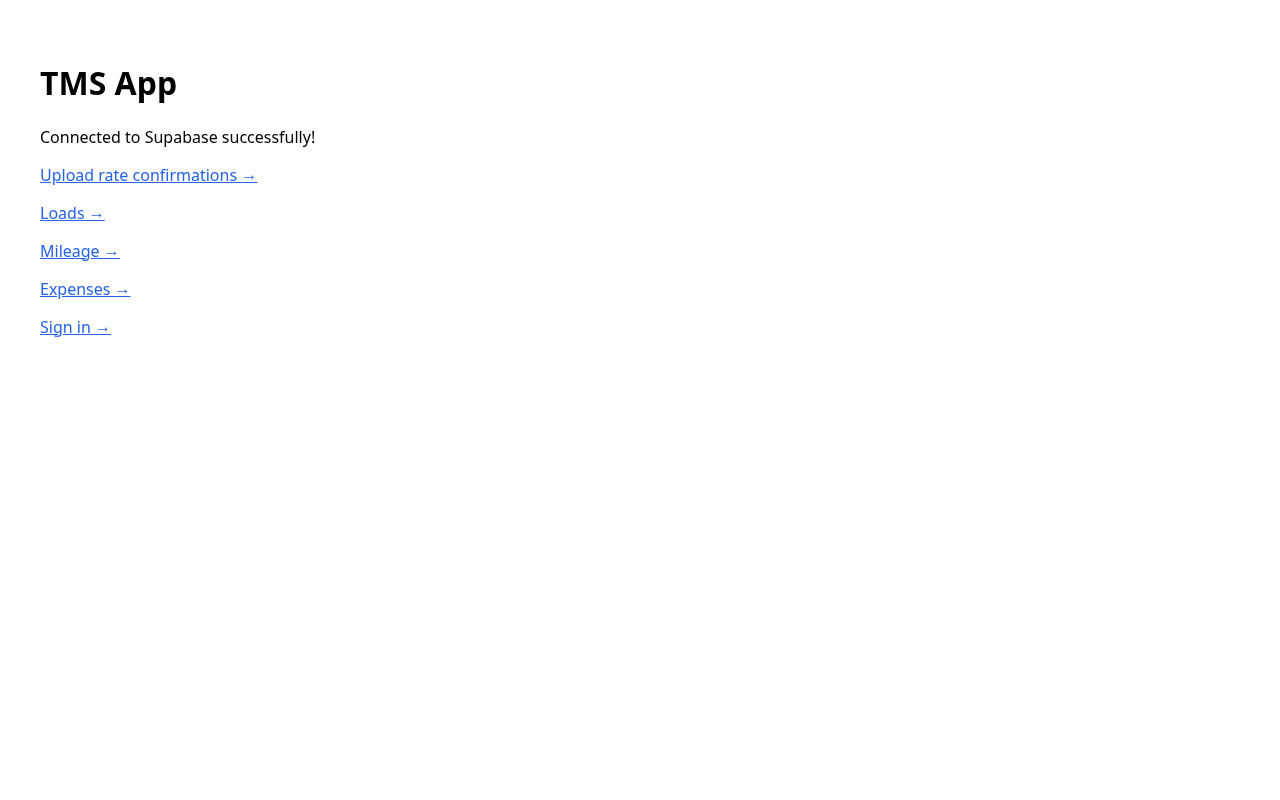
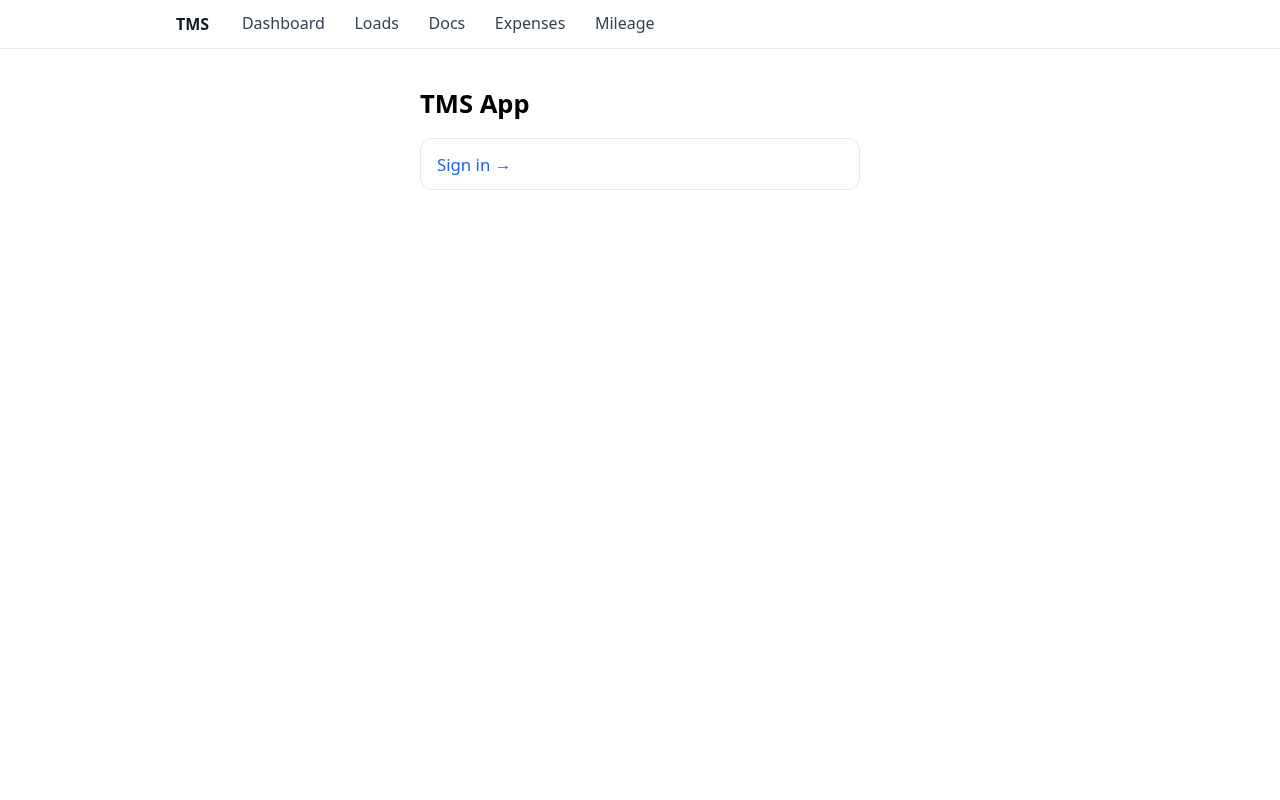
docs: CHANGELOG #14/#16/#17 merged, #18 open; notes known-issue updates; retake 01-home; add 21/22 retest shots

diff --git a/docs/progression/2026-10-11-current-state/notes.md b/docs/progression/2026-10-11-current-state/notes.md
@@ -16,7 +16,7 @@ Snapshot of production (main at 8bf3771).
 - **Security:** row-level security limits every table and storage path to the owner.
 
 ## Pending
-- [#11](https://github.com/fstrucks/tms-app/pull/11) Weekly dashboard: open, not merged.
+- [#11](https://github.com/fstrucks/tms-app/pull/11) Weekly dashboard: merged 2026-10-11.
 - [#13](https://github.com/fstrucks/tms-app/pull/13) Receipt auto-fill date/category fix: open. Until it merges, auto-fill can set the date to today or pick the wrong category (e.g. parking → fuel).
 
 ## Known gaps
@@ -28,8 +28,9 @@ Snapshot of production (main at 8bf3771).
 - Android device testing pending.
 
 ## Known issues found in smoke test
-- The Atlanta, GA delivery stop is shown with TZ America/Chicago; it should be America/New_York.
-- The home page still shows "Sign in" when the user is signed in.
+- Atlanta, GA stop showing America/Chicago: fixed by [#17](https://github.com/fstrucks/tms-app/pull/17) for new loads (TEST-1002 verified America/New_York). Stops created earlier keep their old zone.
+- Appointment times are shown in the viewer's zone instead of the stop's zone: fix pending in [#18](https://github.com/fstrucks/tms-app/pull/18).
+- Home page showing "Sign in" while signed in: fixed by [#17](https://github.com/fstrucks/tms-app/pull/17).
 - The expense form keeps the Load selection after saving.
 
 ## Device testing
@@ -39,7 +40,7 @@ Snapshot of production (main at 8bf3771).
 ## Screenshots
 Desktop, 1280px, signed out (no test data visible).
 
-- [01-home.png](01-home.png): home page with links to each feature.
+- [01-home.png](01-home.png): signed-out home page, re-taken after #17/#14: shared top nav plus "Sign in".
 - [02-login.png](02-login.png): magic-link sign-in.
 - [03-documents-unauth.png](03-documents-unauth.png): /documents signed out, showing the in-page sign-in prompt (no redirect).
 - [04-loads-unauth.png](04-loads-unauth.png): /loads signed out, showing the in-page sign-in prompt (no redirect).
@@ -59,6 +60,10 @@ Desktop, 1280px, signed out (no test data visible).
 - [18-home-signed-in.png](18-home-signed-in.png): home page, signed in.
 - [19-mobile-documents.png](19-mobile-documents.png): mobile (~388px) /documents.
 - [20-mobile-expenses.png](20-mobile-expenses.png): mobile (~388px) /expenses.
+
+### Retest after #17 (test account, fake data)
+- [21-home-signed-in.png](21-home-signed-in.png): home page signed in (signed-in state, sign out).
+- [22-load-detail-ga.png](22-load-detail-ga.png): load detail TEST-1002 with the Atlanta, GA stop on America/New_York.
 
 ### Pending screenshots
 - /dashboard via the PR #11 preview deployment

diff --git a/docs/progression/CHANGELOG.md b/docs/progression/CHANGELOG.md
@@ -3,6 +3,9 @@
 Notable changes to the TMS app, newest first. Dates are merge dates (UTC) from GitHub.
 
 ## 2026-10-11
+- [#16](https://github.com/fstrucks/tms-app/pull/16) Receipt parsing follow-ups (months, all date candidates, logs, limits, single decode)
+- [#14](https://github.com/fstrucks/tms-app/pull/14) Mobile UI polish: shared nav, tap targets, sticky actions
+- [#17](https://github.com/fstrucks/tms-app/pull/17) Hardened stop address parsing (`parse_us_address`: newlines, trailing country, last valid state + ZIP) so stop time zones resolve; home page shows signed-in state, sign out and app links.
 - [#11](https://github.com/fstrucks/tms-app/pull/11) Weekly dashboard (`/dashboard`): booked revenue (excludes cancelled/canceled/TONU/void), load-mile and logged-mile RPM, expenses by category, net; 4/8-week toggle; inline SVG charts.
 - [#13](https://github.com/fstrucks/tms-app/pull/13) Receipt date & category fix: the model returns the printed date, the server parses it, and there's no fallback to today. Explicit category rules (e.g. parking → tolls).
 - [#12](https://github.com/fstrucks/tms-app/pull/12) Expenses: AI auto-fill from receipt photos
@@ -21,6 +24,4 @@ Notable changes to the TMS app, newest first. Dates are merge dates (UTC) from G
 - Commit 2a047f6 (direct to main, no PR): Add rate confirmation upload page (/documents) with Supabase Storage + documents bucket migration
 
 ## Open (not merged)
-- [#17](https://github.com/fstrucks/tms-app/pull/17) Hardened stop address parsing (`parse_us_address`: newlines, trailing country, last valid state + ZIP) so stop time zones resolve; home page shows signed-in state, sign out and app links.
-- [#16](https://github.com/fstrucks/tms-app/pull/16) Receipt parsing follow-ups (months, all date candidates, logs, limits, single decode)
-- [#14](https://github.com/fstrucks/tms-app/pull/14) Mobile UI polish: shared nav, tap targets, sticky actions
+- [#18](https://github.com/fstrucks/tms-app/pull/18) Store stop timezone and show appointments in each stop's zone
